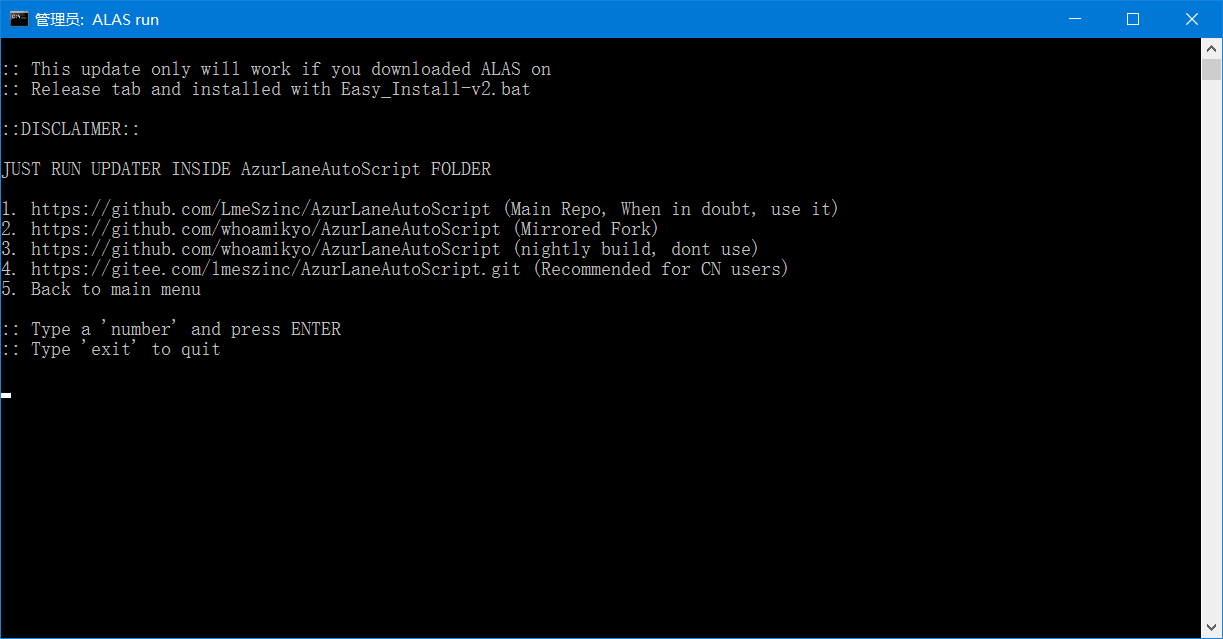
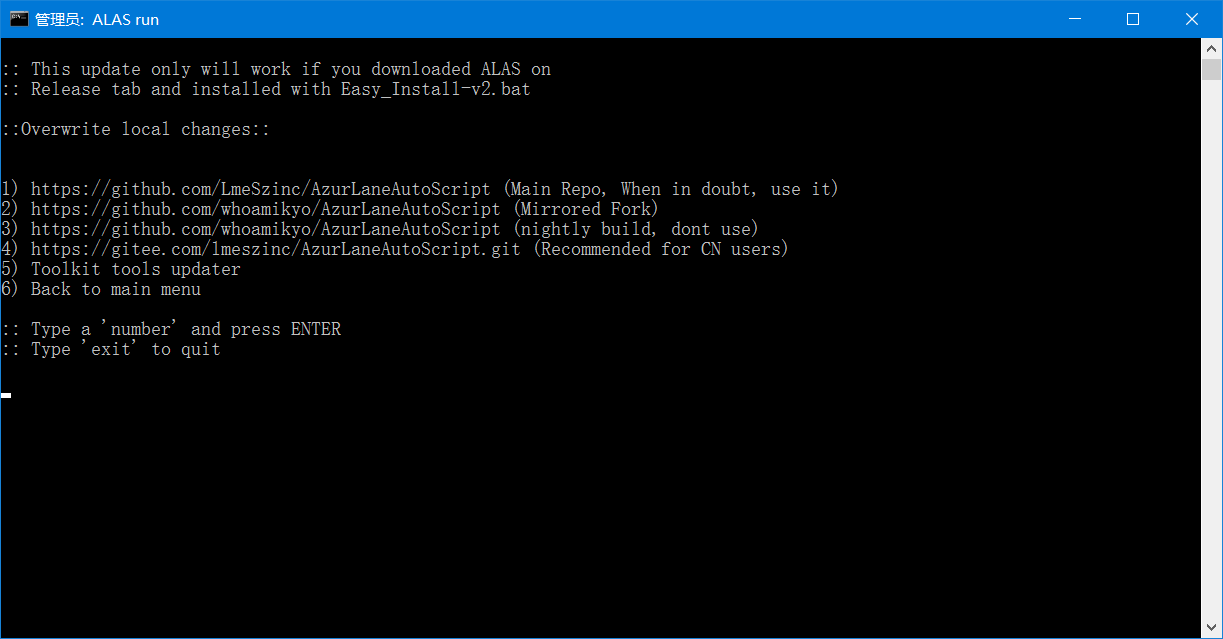
Doc: [CN] Update Installation_cn.md

Changed region(s): [[0.0, 0.2379, 0.6836, 0.4757], [0.0, 0.1784, 0.2175, 0.2081]]

diff --git a/doc/Installation_cn.md b/doc/Installation_cn.md
@@ -10,7 +10,7 @@
 
    ![install_release](Installation_cn.assets/install_release.png)
 
-2. **解压** 解压到目录, 比如解压到 `D:\AzurLaneAutoScript`
+2. **解压** 解压到目录, 比如解压到 `D:\AzurLaneAutoScript`, 请确保有至少 1.5 GB 的空间.
 
    你会看到有一个名为 `toolkit` 的目录, 和一个名为 `Easy_Install-V2.bat` 的批处理文件
 
@@ -22,11 +22,9 @@
 
    ![install_admin](Installation_cn.assets/install_admin.png)
 
-   这下面这个界面, 你需要启动你的模拟器
+   这下面这个界面,  输入 `gitee` , 也就是从选择码云(gitee)镜像下载, 然后按下回车键
 
    ![install_batch](Installation_cn.assets/install_batch.png)
-
-   准备完成后, 输入 `gitee` , 也就是从选择码云(gitee)镜像下载, 然后按下回车键
 
    当看到如下信息时, 说明安装成功
 
@@ -106,11 +104,21 @@
 
 ![alas_main](Installation_cn.assets/alas_main.png)
 
-按下数字4, 也就是更新, 再按下回车键, 进入到选择界面
+按下数字4, 也就是更新, 再按下回车键.
+
+这里会询问更新的方式.
+
+![alas_update_method](Installation_cn.assets/alas_update_method.png)
+
+一般选 1 , 也就是覆盖已有文件(会保留用户设置). 如果你手动修改了一些文件, 比如编写了自己的地图逻辑, 并且希望保留, 就选 2.
+
+输入选择的数字, 然后按下回车键.
+
+进入到选择界面
 
 ![alas_update](Installation_cn.assets/alas_update.png)
 
-国内用户按下数字键4, 选择从gitee镜像更新
+输入数字4, 选择从gitee镜像更新. 如果 Alas 有大版本更新需要更新, 就输入数字 5, 更新运行环境.
 
 然后按下回车键
 
@@ -150,6 +158,12 @@
 ```
 pip install -r requirements.txt
 ```
+
+> 如果在安装 Python-Levenshtein 的时候遇到 Microsoft Visual C++ 14.0 is required, 可以在[这里](https://www.lfd.uci.edu/~gohlke/pythonlibs/)下载它的 wheel 文件, 然后用 pip 安装
+>
+> ```
+> pip install python_Levenshtein-0.12.0-cp37-cp37m-win_amd64.whl
+> ```
 
 ### 安装模拟器
 
